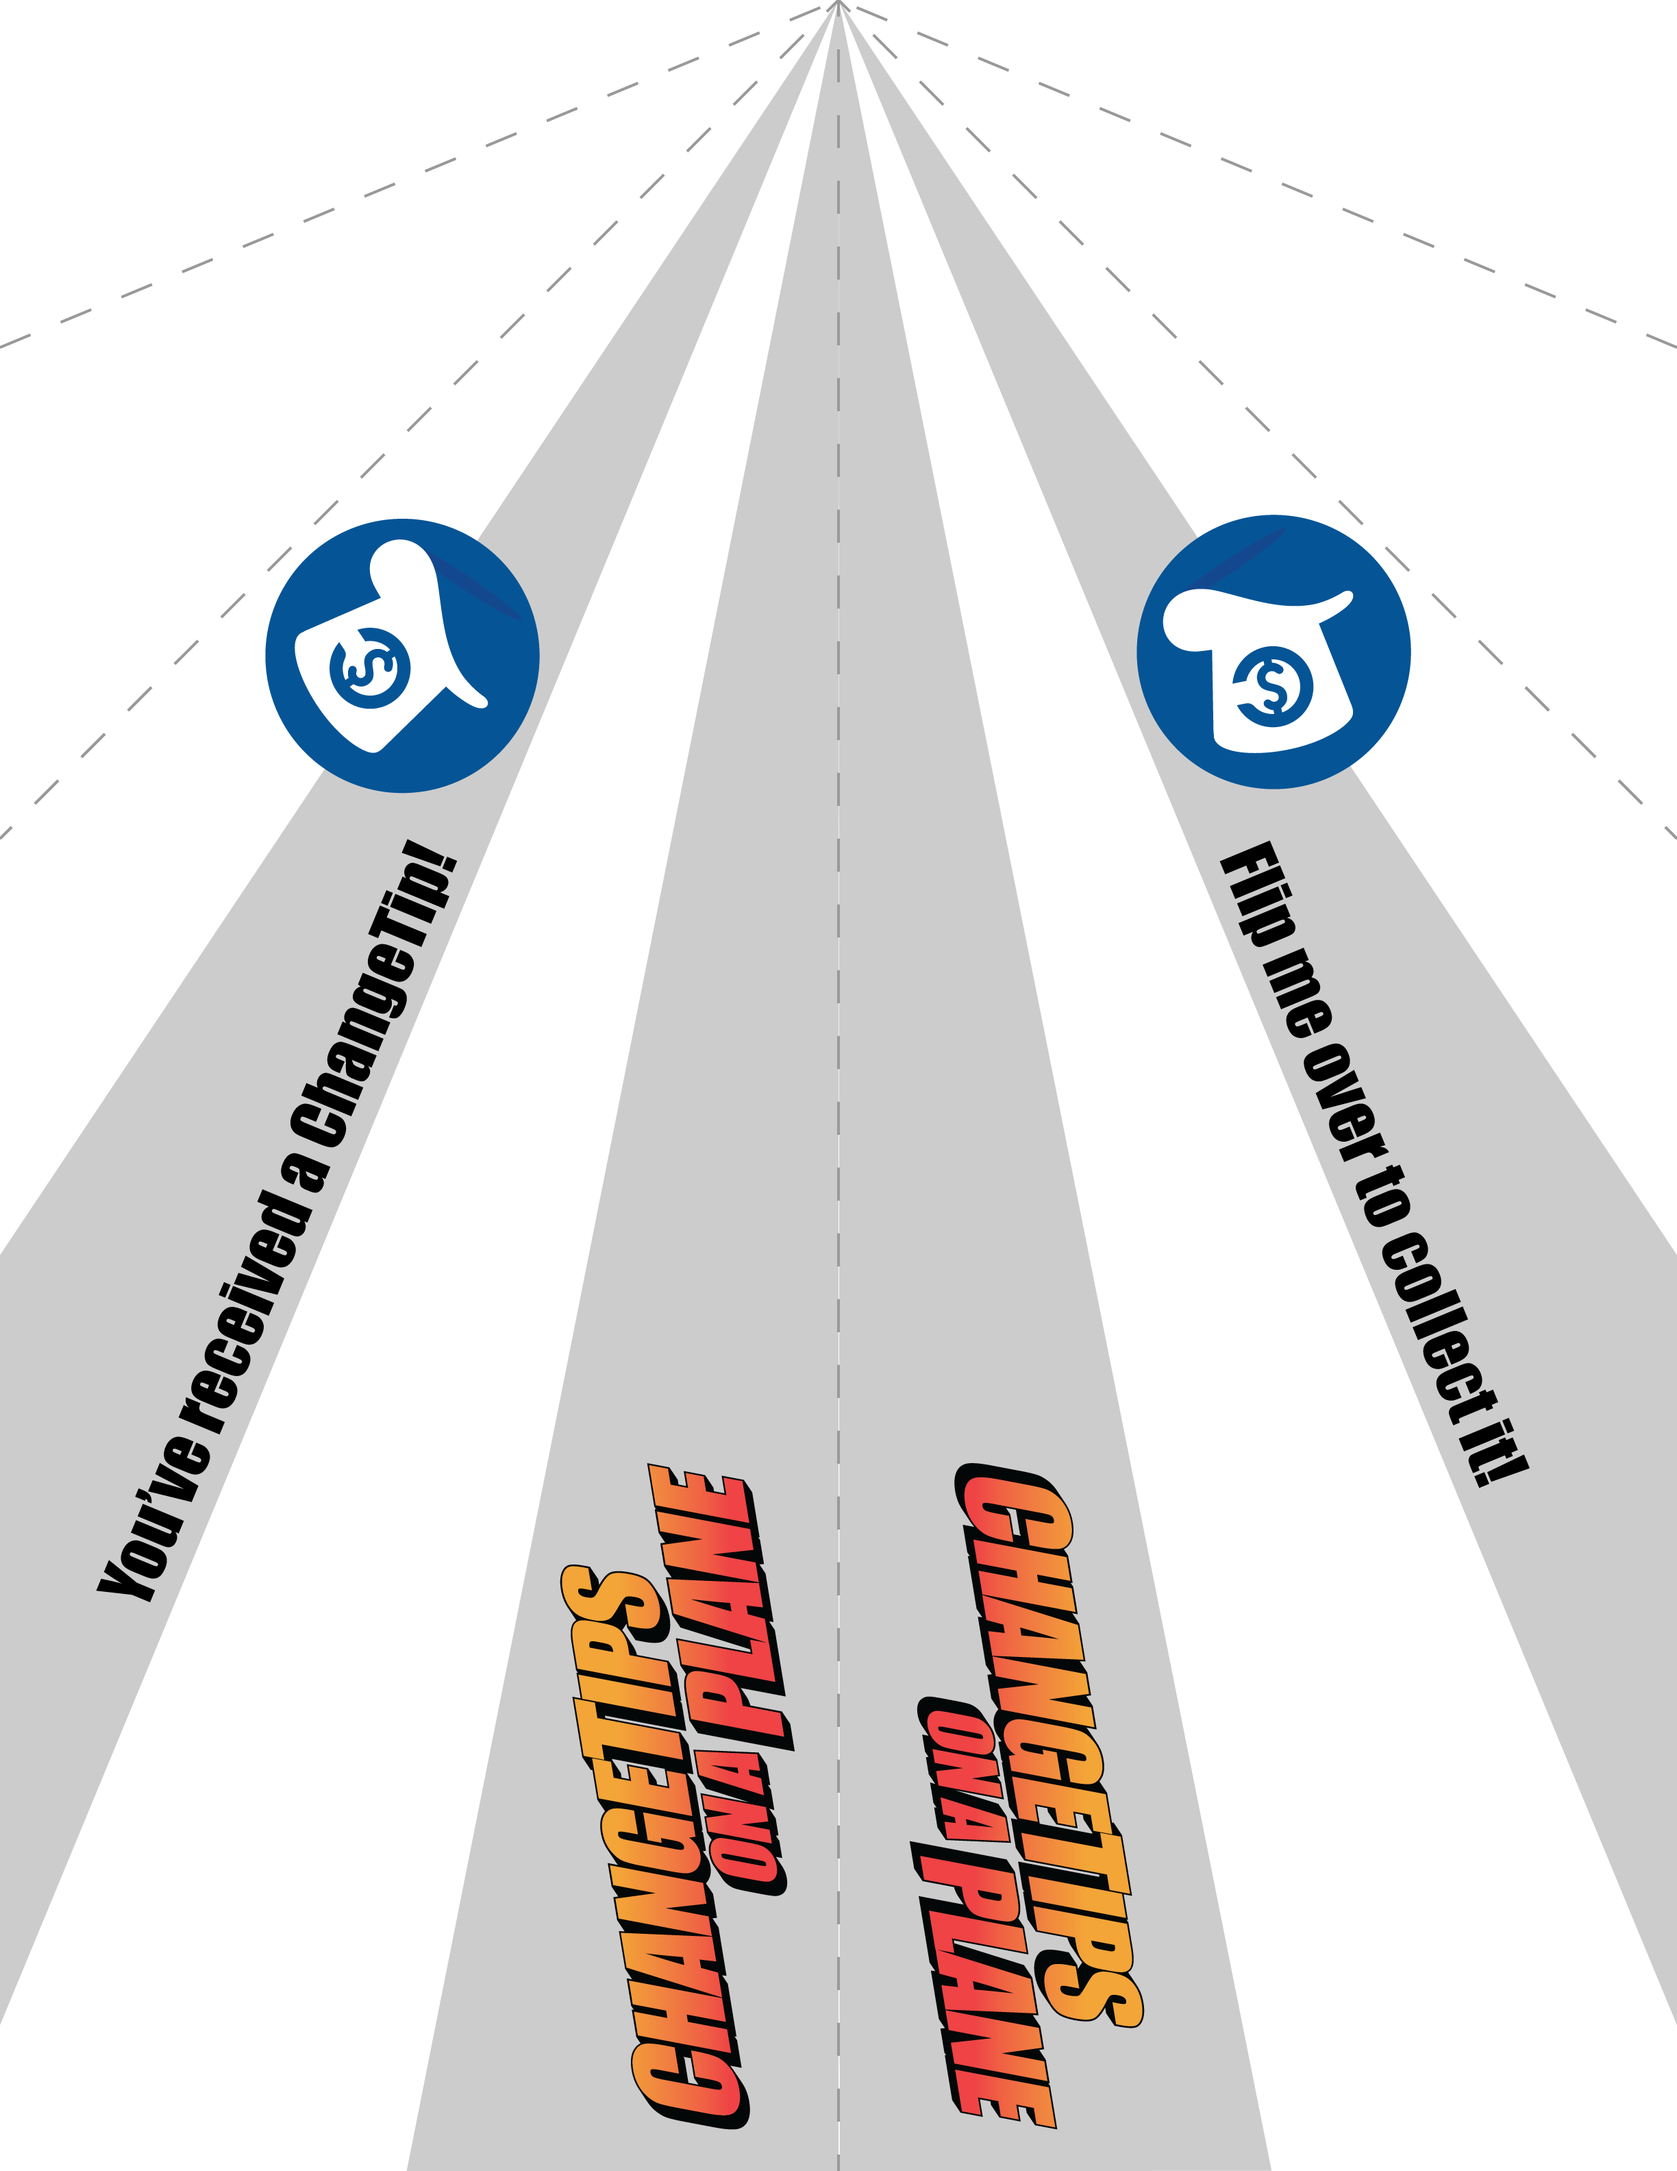
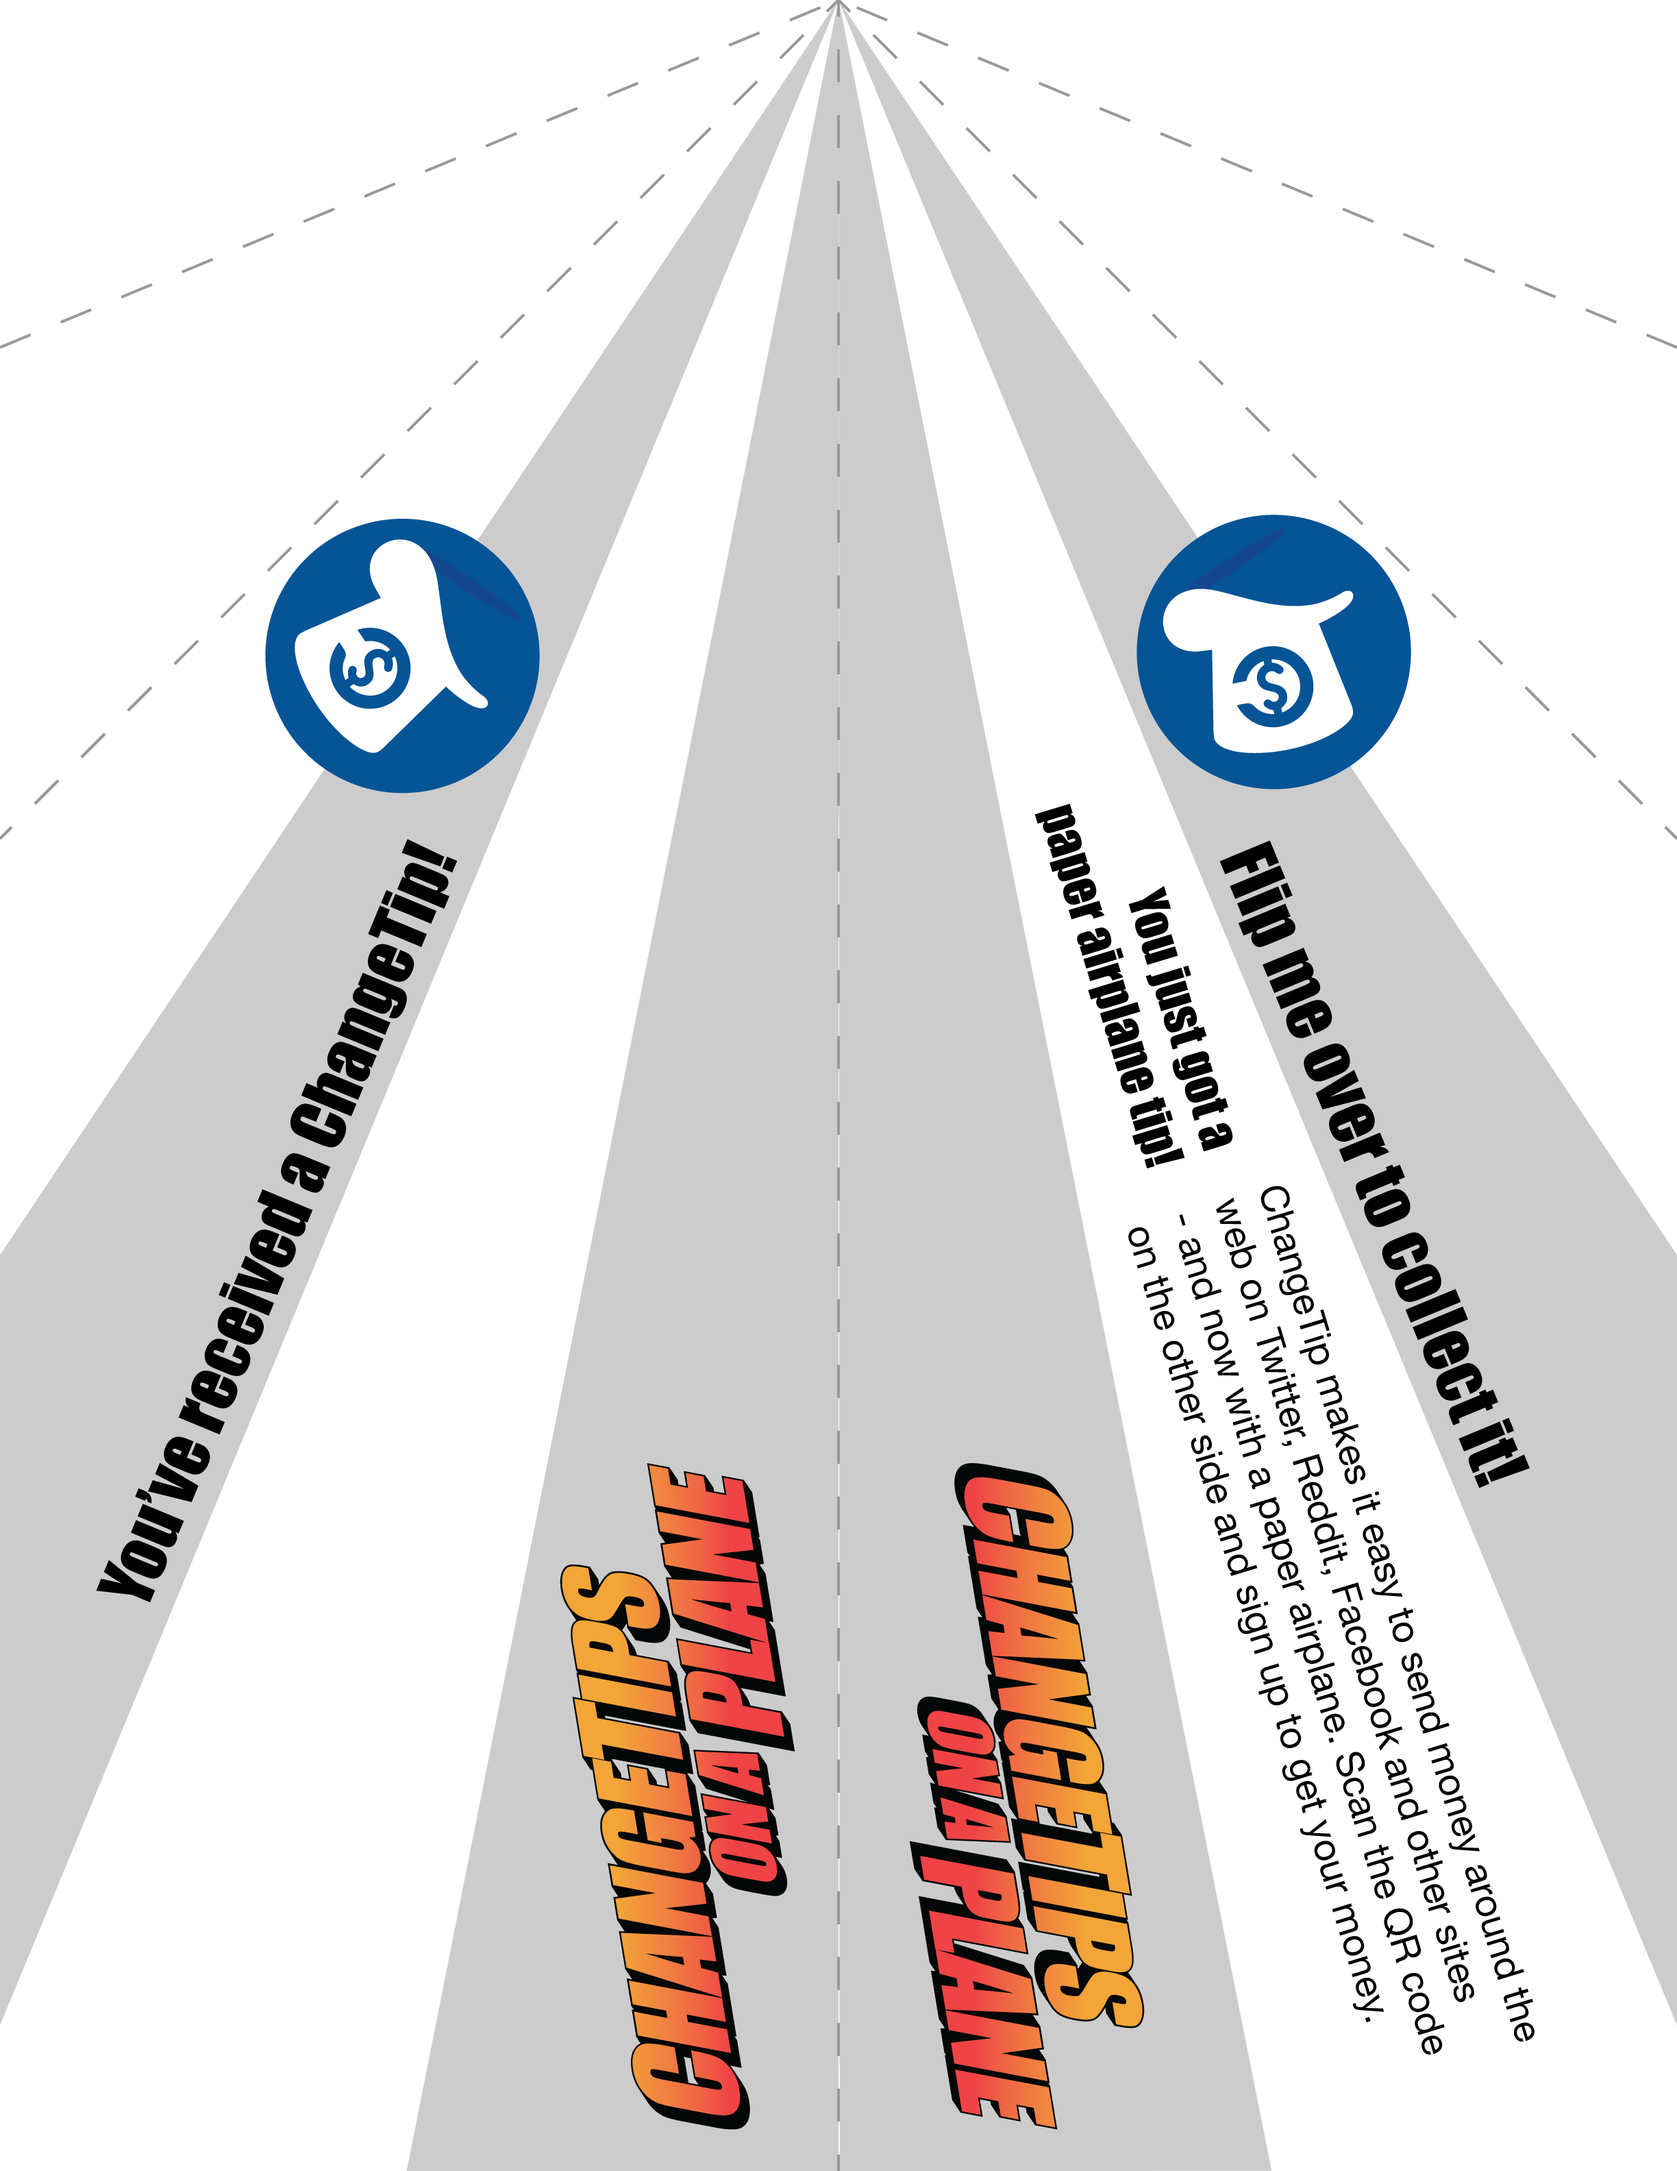
updated plane background

Changed region(s): [[0.683, 0.5312, 0.9314, 0.9375], [0.6209, 0.375, 0.7451, 0.5312]]

diff --git a/public/styles/toap.css b/public/styles/toap.css
@@ -1,2 +1,2 @@
-*{box-sizing:border-box}body,input{font-family:Impact,sans-serif;font-size:12pt}a{color:#fff;text-decoration:none}a:hover{text-decoration:underline}@media screen{html{background:linear-gradient(to bottom, #005296, #00294b);height:100%}body{margin:0;min-height:100%;text-align:center}.content-print{display:none}.content-screen{padding-top:1px}.wordmark{background-image:url("/public/img/wordmark.png");background-size:100%;height:285px;margin:20px auto 40px;width:800px}.user{font-family:"Helvetica Neue",sans-serif;font-size:.8em;position:absolute;right:10px;top:5px}.user img{border:1px solid #fff;border-radius:32px;display:inline-block;height:32px;vertical-align:middle;width:32px}.tip-form{display:table;margin:0 auto}.tip-form [type="text"]{border:2px solid #ef4445;border-bottom-left-radius:7px;border-top-left-radius:7px;display:table-cell;font-size:2em;padding:10px;text-align:center;width:400px}.tip-form [type="submit"]{background:#ef4445;border:0;border-bottom-right-radius:7px;border-top-right-radius:7px;color:#f1a437;cursor:pointer;display:table-cell;font-size:2em;padding:12px;text-shadow:-1px 2px #000}.steps{display:table;margin:0 auto 50px;padding:0}.steps li{background-position:top center;background-repeat:no-repeat;background-size:100px;color:#fff;display:table-cell;font-family:"Helvetica Neue",sans-serif;font-weight:100;height:100px;padding-top:110px;width:200px}.steps .step1{background-image:url("/public/img/step1.png")}.steps .step2{background-image:url("/public/img/step2.png")}.steps .step3{background-image:url("/public/img/step3.png")}.sign-in-button{height:44px;width:200px}.print{display:none;font-size:2em}.done .tip-form{display:none}.done .print{display:block}}@media print{html,body{height:100%;margin:0}.content-screen{display:none}.content-print{display:block;height:100%;overflow:hidden;position:relative;width:100%}.done .content-print{display:block}.plane-bg{height:100%;position:absolute;width:100%}.link{bottom:1in;left:.75in;position:absolute;transform:rotate(-78.75deg)}.link .qr{display:block;height:1in;position:absolute;width:1in}.link .text{color:#7f7f7f;font-family:"Helvetica Neue",sans-serif;font-size:1.2em;left:1.15in;line-height:.9em;position:absolute;top:.6in;white-space:nowrap}.link .text span{display:block;font-weight:900}.pilot,.co-pilot{border:1px solid #000;border-radius:0.35in;height:0.35in;left:50%;position:absolute;top:2.5in;width:0.35in}.pilot{margin-left:.1in;transform:rotate(90deg)}.co-pilot{margin-left:-0.45in;transform:rotate(-90deg)}}
+*{box-sizing:border-box}body,input{font-family:Impact,sans-serif;font-size:12pt}a{color:#fff;text-decoration:none}a:hover{text-decoration:underline}@media screen{html{background:linear-gradient(to bottom, #005296, #00294b);height:100%}body{margin:0;min-height:100%;text-align:center}.content-print{display:none}.content-screen{padding-top:1px}.wordmark{background-image:url("/public/img/wordmark.png");background-size:100%;height:285px;margin:20px auto 40px;width:800px}.user{font-family:"Helvetica Neue",sans-serif;font-size:.8em;position:absolute;right:10px;top:5px}.user img{border:1px solid #fff;border-radius:32px;display:inline-block;height:32px;vertical-align:middle;width:32px}.tip-form{display:table;margin:0 auto}.tip-form [type="text"]{border:2px solid #ef4445;border-bottom-left-radius:7px;border-top-left-radius:7px;display:table-cell;font-size:2em;padding:10px;text-align:center;width:400px}.tip-form [type="submit"]{background:#ef4445;border:0;border-bottom-right-radius:7px;border-top-right-radius:7px;color:#f1a437;cursor:pointer;display:table-cell;font-size:2em;padding:12px;text-shadow:-1px 2px #000}.steps{display:table;margin:0 auto 50px;padding:0}.steps li{background-position:top center;background-repeat:no-repeat;background-size:100px;color:#fff;display:table-cell;font-family:"Helvetica Neue",sans-serif;font-weight:100;height:100px;padding-top:110px;width:200px}.steps .step1{background-image:url("/public/img/step1.png")}.steps .step2{background-image:url("/public/img/step2.png")}.steps .step3{background-image:url("/public/img/step3.png")}.sign-in-button{height:44px;width:200px}.print{display:none;font-size:2em}.done .tip-form{display:none}.done .print{display:block}}@media print{html,body{height:100%;margin:0}.content-screen{display:none}.content-print{display:none;height:100%;overflow:hidden;position:relative;width:100%}.done .content-print{display:block}.plane-bg{height:100%;position:absolute;width:100%}.link{bottom:1in;left:.75in;position:absolute;transform:rotate(-78.75deg)}.link .qr{display:block;height:1in;position:absolute;width:1in}.link .text{color:#7f7f7f;font-family:"Helvetica Neue",sans-serif;font-size:1.2em;left:1.15in;line-height:.9em;position:absolute;top:.6in;white-space:nowrap}.link .text span{display:block;font-weight:900}.pilot,.co-pilot{border:1px solid #000;border-radius:0.35in;height:0.35in;left:50%;position:absolute;top:2.5in;width:0.35in}.pilot{margin-left:.1in;transform:rotate(90deg)}.co-pilot{margin-left:-0.45in;transform:rotate(-90deg)}}
 /*# sourceMappingURL=toap.css.map */

diff --git a/templates/home.html b/templates/home.html
@@ -35,7 +35,7 @@
     <img class="pilot" src="{{extra_data.picture_url}}">
     <img class="co-pilot" src="/public/img/sam.jpg">
     <div class="link">
-        <img class="qr" src="https://api.qrserver.com/v1/create-qr-code/?data=http://tip.me/once/rsrD-ocXWkfk&size=320x320">
+        <img class="qr" src="">
         <div class="text">Collect your tip here!<span></span></div>
     </div>
 </div>

diff --git a/public/styles/toap.scss b/public/styles/toap.scss
@@ -164,7 +164,7 @@ a {
     .content-screen { display: none; }
 
     .content-print {
-        display: block;
+        display: none;
         height: 100%;
         overflow: hidden;
         position: relative;
